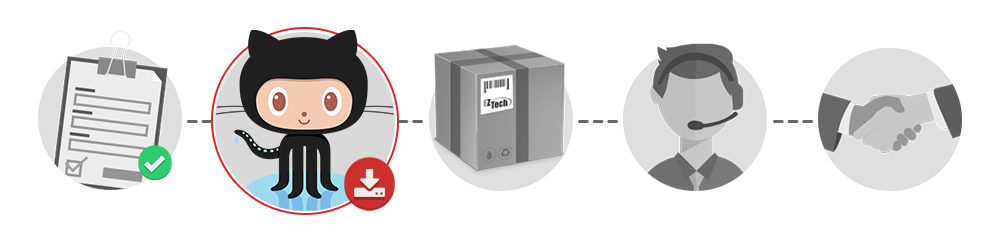
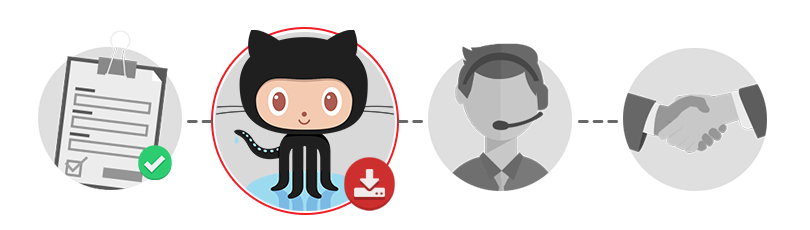
Atualização das imagens e do html.

diff --git a/seja-bem-vindo/index.html b/seja-bem-vindo/index.html
@@ -47,7 +47,7 @@
 			<br>
 			Agradecemos muito pelo seu contato para integração com nossos equipamentos, estamos a sua disposição para ajudá-lo em suas necessidades, temos certeza de que corresponderemos a parceria e desenvolveremos um ótimo trabalho em conjunto.</p>
 
-			<p style="font-size:15px">Nosso processo de integração é composto por <strong>5 Etapas</strong>, como ilustrado abaixo.</p>
+			<p style="font-size:15px">Nosso processo de integração é composto por <strong>4 Etapas</strong>, como ilustrado abaixo.</p>
 		</td>
 	</tr>
 </table>
@@ -75,7 +75,8 @@
 	 <tr>
 		<td style="font-size:13px; color:#333;">
 			<p>
-				Para que possamos continuar, precisamos de alguns dados que são essenciais para que a integração seja iniciada. Para agilizarmos essa etapa, clique no botão abaixo e conclua o quanto antes o seu cadastro.
+				Para que possamos continuar, precisamos de alguns dados que são essenciais para que a integração seja iniciada. Para agilizarmos essa etapa, clique no botão abaixo e conclua o quanto antes o seu cadastro. Caso
+				possua alguma dúvida, entre em contato conosco pelos telefones abaixo ou pelo email <a href="mailto:integracao@eztech.ind.br">integracao@eztech.ind.br</a>
 			</p>
 			<a href="https://docs.google.com/a/eztech.ind.br/forms/d/1ueE9P4BCvT3Oar47WVCoy5nWi00LH2cpIpd76uYFY-s" target="_blank" style="border-radius:100px !important; border: 2px solid #ed1c24!important; color:#ed1c24!important; margin-top:10px!important; font-size:16px!important; text-transform: uppercase!important; font-weight: bold!important; text-align:center!important; padding:8px 20px 10px 15px!important; text-decoration:none!important; display:inline-block!important;"><img src="https://github.com/EZTechBrasil/Integracao/raw/master/assets/img/icon-arrow-right.png" style="display:inline-block; margin-right:10px!important;">Preencha seus Dados</a>
 		</td>

diff --git a/suporte-na-integracao/index.html b/suporte-na-integracao/index.html
@@ -46,7 +46,7 @@
 				Prezado parceiro,
 				<br>
 				<br>
-				Agora que já recebeu nosso Kit de Integração, estamos aqui para orienta-lo caso precise.
+				Agora que você já montou o ambiente de testes, estamos aqui para ajudá-lo no processo de testes e, logo após, no posto piloto.
 			</p>
 		</td>
 	</tr>
@@ -77,7 +77,7 @@
 		<td width="350" style="font-size:13px; color:#333;">
 			<p>Durante o processo de integração, se precisar entre em contato pelos telefones abaixo, um dos nossos especialistas desenvolvedores prontamente vai ajudar.</p>
 
-			<p>Após a integração, você deverá efetuar os testes de homologação. Abaixo disponibilizamos o link para a planilha. Execute os testes, insira os resultados obtidos e envie a planilha para o seguinte endereço: <a href="mailto:desenvolv@eztech.ind.br">desenvolv@eztech.ind.br</a>.</p>
+			<p>Após a integração, você deverá efetuar os testes de homologação. Abaixo disponibilizamos o link para a planilha. Execute os testes, insira os resultados obtidos e envie a planilha para o seguinte endereço: <a href="mailto:integracao@eztech.ind.br">integracao@eztech.ind.br</a>.</p>
 			<a href="https://github.com/EZTechBrasil/Integracao/raw/master/downloads/HomologacaoDeIntegracaoV1_2.xlsx" style="border-radius:100px; border: 2px solid #ed1c24; color:#ed1c24; margin-top:10px; font-size:16px; text-transform: uppercase; font-weight: bold; text-align:center; padding:8px 20px 10px 15px; text-decoration:none; display:inline-block;"><img src="https://github.com/EZTechBrasil/Integracao/raw/master/assets/img/icon-arrow-right.png" style="display:inline-block; margin-right:10px;">Planilha de Homologação</a>
 
 		</td>
